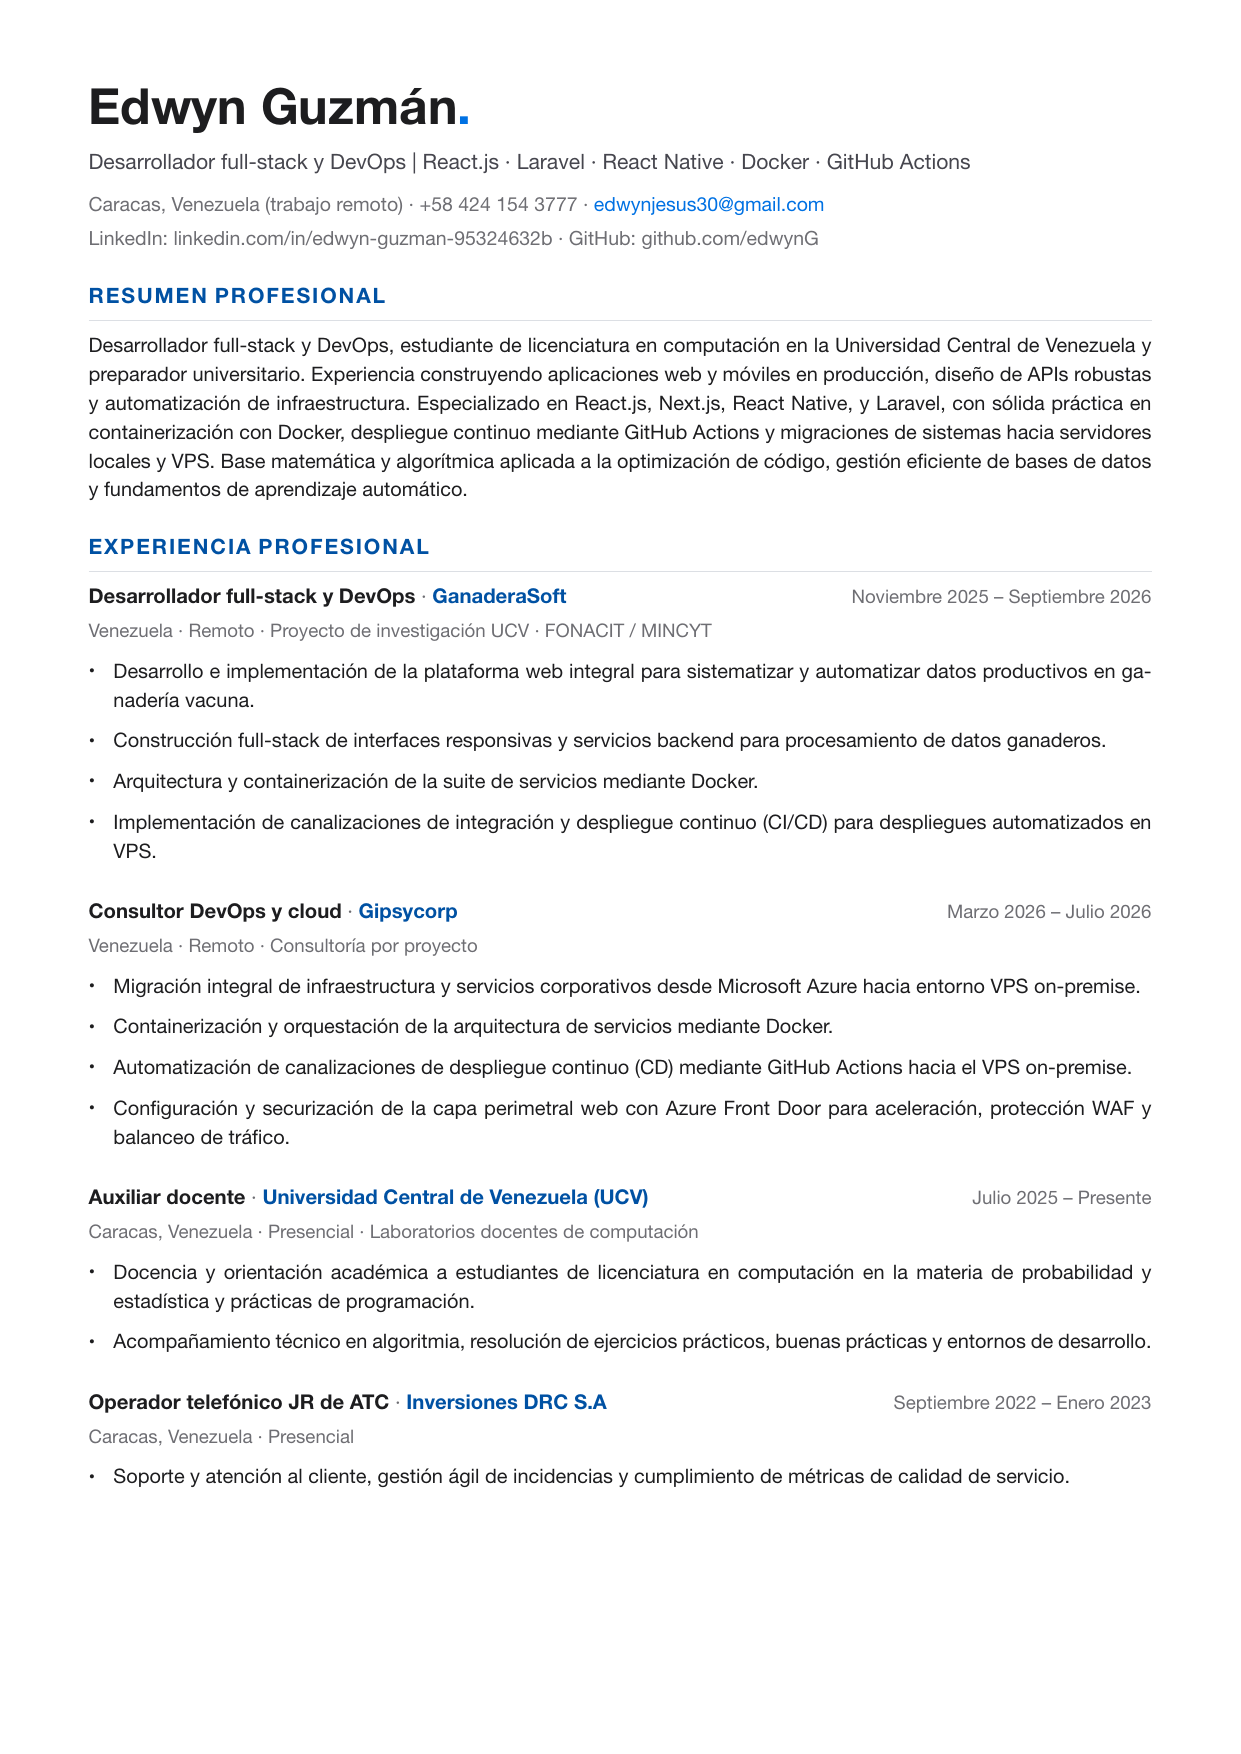
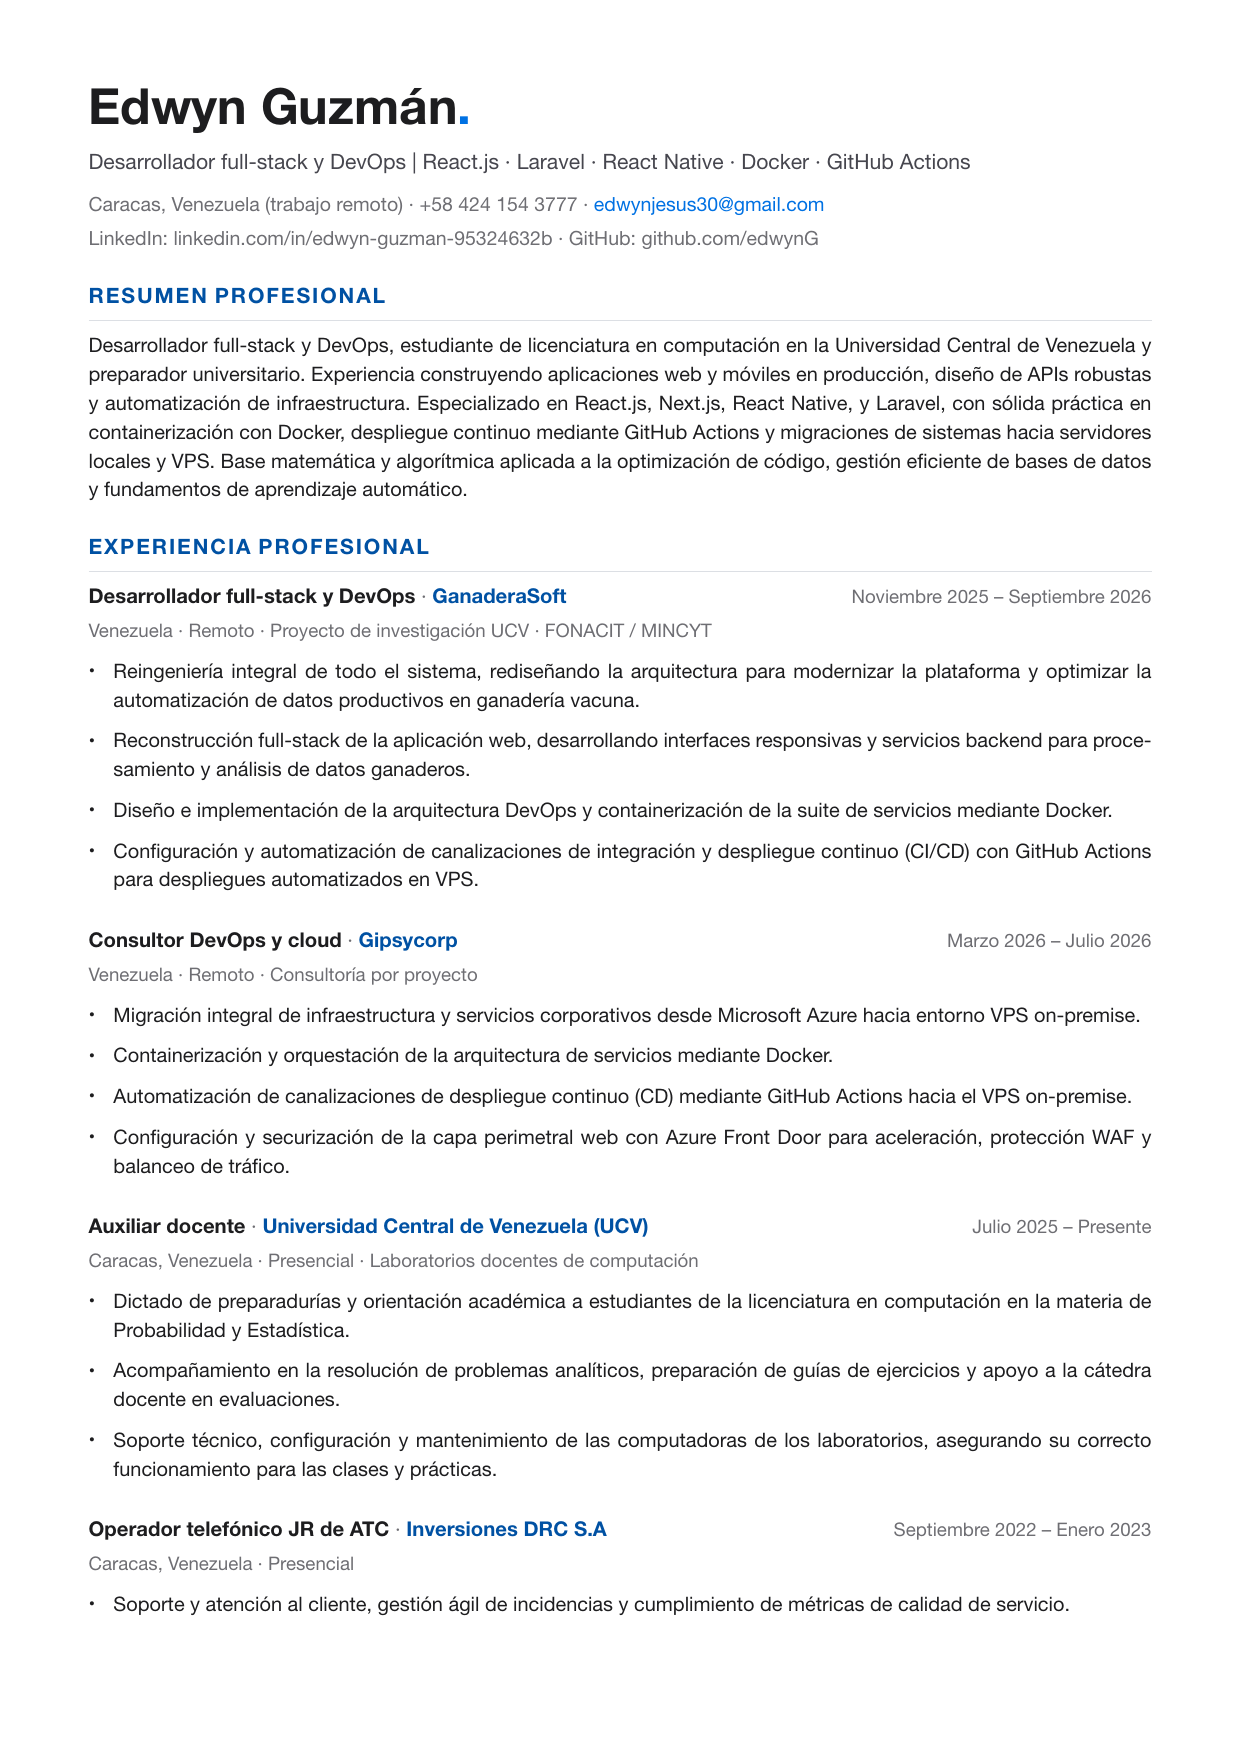
feat: actualizar descripciones de experiencia en GanaderaSoft y UCV
- Destacar reingeniería integral y labores DevOps en GanaderaSoft
- Clarificar rol de Auxiliar docente con preparadurías de Probabilidad y Estadística y soporte de equipos en laboratorios

Changed region(s): [[0.0612, 0.3694, 0.9186, 0.9236], [0.5205, 0.8928, 0.6737, 0.9236], [0.888, 0.862, 0.9186, 0.8928]]

diff --git a/cv.tex b/cv.tex
@@ -143,10 +143,10 @@
 \cvsection{EXPERIENCIA PROFESIONAL}
 
 \cventry{Desarrollador full-stack y DevOps}{GanaderaSoft}{Venezuela · Remoto · Proyecto de investigación UCV · FONACIT / MINCYT}{Noviembre 2025 – Septiembre 2026}
-\cvitem{Desarrollo e implementación de la plataforma web integral para sistematizar y automatizar datos productivos en ganadería vacuna.}
-\cvitem{Construcción full-stack de interfaces responsivas y servicios backend para procesamiento de datos ganaderos.}
-\cvitem{Arquitectura y containerización de la suite de servicios mediante Docker.}
-\cvitem{Implementación de canalizaciones de integración y despliegue continuo (CI/CD) para despliegues automatizados en VPS.}
+\cvitem{Reingeniería integral de todo el sistema, rediseñando la arquitectura para modernizar la plataforma y optimizar la automatización de datos productivos en ganadería vacuna.}
+\cvitem{Reconstrucción full-stack de la aplicación web, desarrollando interfaces responsivas y servicios backend para procesamiento y análisis de datos ganaderos.}
+\cvitem{Diseño e implementación de la arquitectura DevOps y containerización de la suite de servicios mediante Docker.}
+\cvitem{Configuración y automatización de canalizaciones de integración y despliegue continuo (CI/CD) con GitHub Actions para despliegues automatizados en VPS.}
 
 \jobsep
 
@@ -159,8 +159,9 @@
 \jobsep
 
 \cventry{Auxiliar docente}{Universidad Central de Venezuela (UCV)}{Caracas, Venezuela · Presencial · Laboratorios docentes de computación}{Julio 2025 – Presente}
-\cvitem{Docencia y orientación académica a estudiantes de licenciatura en computación en la materia de probabilidad y estadística y prácticas de programación.}
-\cvitem{Acompañamiento técnico en algoritmia, resolución de ejercicios prácticos, buenas prácticas y entornos de desarrollo.}
+\cvitem{Dictado de preparadurías y orientación académica a estudiantes de la licenciatura en computación en la materia de Probabilidad y Estadística.}
+\cvitem{Acompañamiento en la resolución de problemas analíticos, preparación de guías de ejercicios y apoyo a la cátedra docente en evaluaciones.}
+\cvitem{Soporte técnico, configuración y mantenimiento de las computadoras de los laboratorios, asegurando su correcto funcionamiento para las clases y prácticas.}
 
 \jobsep
 
